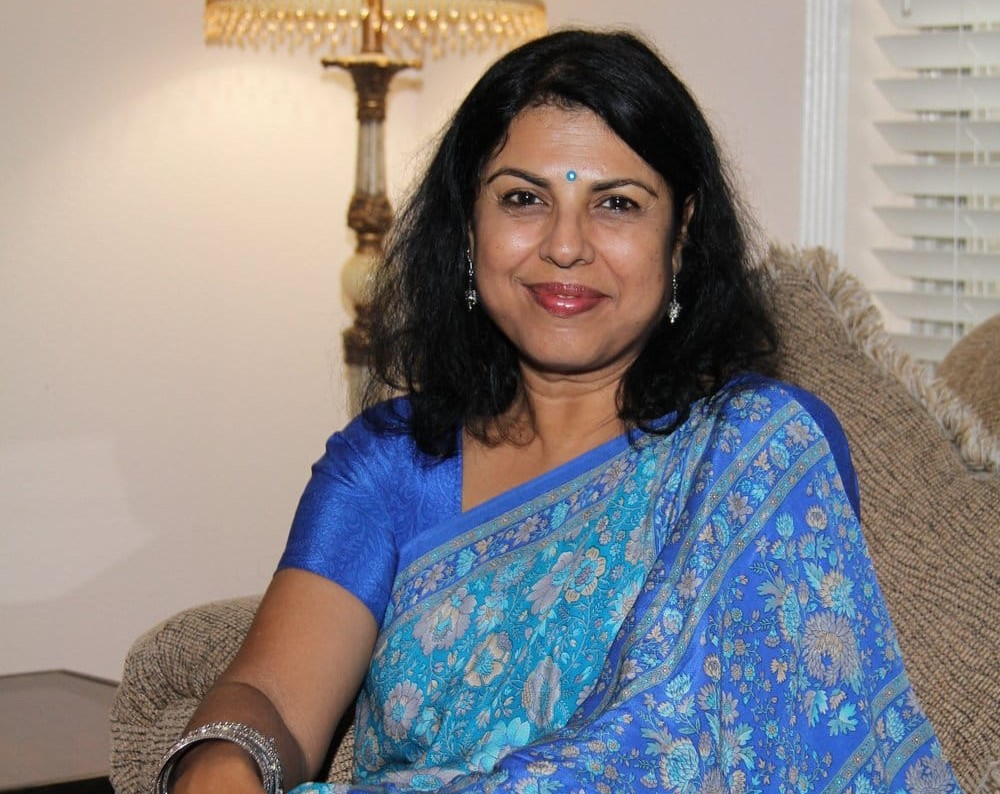
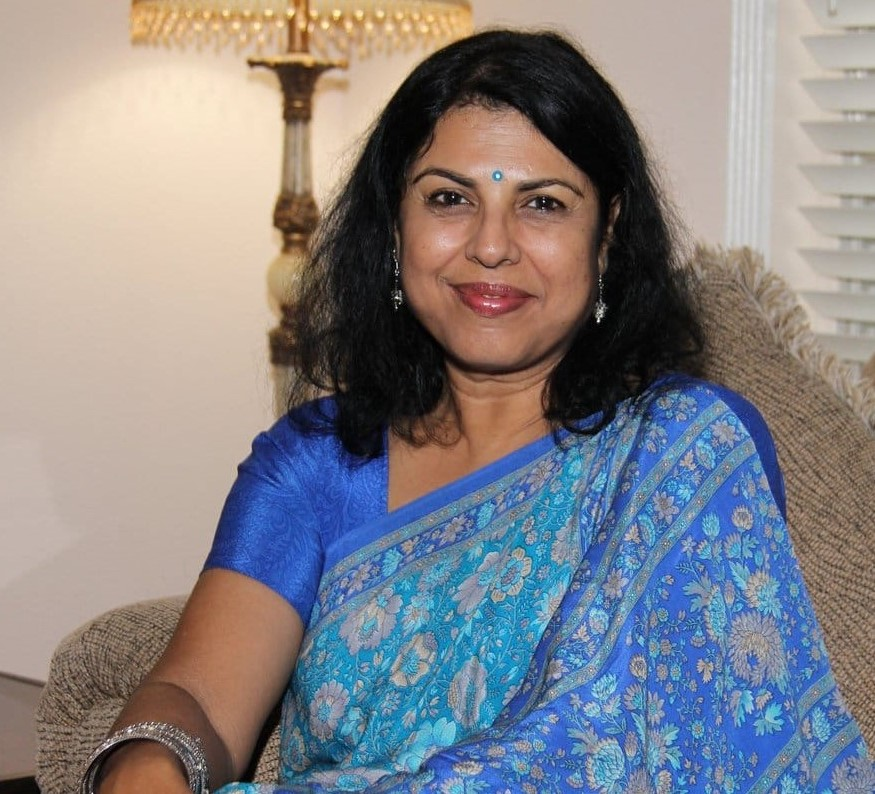
21

diff --git a/Pages/recentreleases.html b/Pages/recentreleases.html
@@ -329,40 +329,6 @@
 
     <hr class="hr-art">
 
-
-
-
-    <div class="art-hor">
-      <div class="art-hor-img">
-      <img src="../book-img/BlackRiver1.jpg" alt="Artist image">
-      </div>
-      <div class="art-hor-info">
-        <a href="nilanjanaroy.html" class="art-topic">Nilanjana S. Roy</a>
-        <p class="contents1">Black River by Nilanjana S. Roy is a noir mystery that takes the readers on a dark and fatalistic journey into a story of lost innocence which is coloured with immense grief. What happens to a father whose child's life is suddenly cut short? Does the final coming together of the pieces of the puzzle bring any sense of closure? Why do we consider murder to be the most unforgiving crime? The Yamuna, groaning with the burden of pollutants, flows through the city of Delhi and the story as the black river. It remains a silent spectator to the crimes that unfold on its banks and on its waters. But do human beings have the capacity to swallow everything like the river? Roy delves into these pertinent questions and charts out a narrative that sheds light on these questions of loss and grief.</p>
-          <a href="nilanjanaroy.html" class="art-topic1"><button class="abtn">Read more</button></a>
-          
-      </div>
-    </div>
-
-    <hr class="hr-art">
-
-    <div class="art-hor">
-      <div class="art-hor-img">
-      <img src="../book-img/Independence1.jpg" alt="Artist image">
-      </div>
-      <div class="art-hor-info">
-        <a href="chitra.html" class="art-topic">Chitra Banerjee Divakaruni</a>
-        <p class="contents1">The latest work by the author of 'The Forest of 
-          Enchantments' and 'The Last Queen' is set on the cusp of India's independence. The novel begins 
-          in the idyllic setting of Ranipur, a village in Bengal 'safe from the rising turbulence in the 
-          country'. Nabakumar Ganguly is a doctor who runs a clinic in Calcutta with Dr. Abdullah but the </p>
-          <a href="chitra.html" class="art-topic1"><button class="abtn">Read more</button></a>
-          
-      </div>
-    </div>
-
-    <hr class="hr-art">
-
     <div class="art-hor">
       <div class="art-hor-img">
       <img src="../book-img/books1.1.jpg" alt="Artist image">

diff --git a/Pages/chitra.html b/Pages/chitra.html
@@ -188,7 +188,8 @@
     <h3 class="light-dark"></h3>
     <h1 class="art-top"></h1>
     <div class="booksideimages">
-      <!-- <img class="book-page-authorimg" src="" alt=""> -->
+      <img class="book-page-authorimg" src="../authorprofileimg/chitrabanarjee.jpg" alt="image"> <br>
+      <span class="credit">Image Credit - Author</span>
     <img class="book-page-img" src="../book-img/Independence.jpg" alt="book image">
    </div>
     

diff --git a/Pages/nilanjanaroy.html b/Pages/nilanjanaroy.html
@@ -189,7 +189,7 @@
     <h1 class="art-top"></h1>
 
     <div class="booksideimages">
-       <img class="book-page-authorimg" src="../authorprofileimg/nilanjanasroy.jpg" alt=""> <br>
+       <img class="book-page-authorimg" src="../authorprofileimg/nilanjanasroy1.jpg" alt=""> <br>
        <span class="credit">Image Credit - Author</span>
        <img class="book-page-img" src="../book-img/BlackRiver.jpg" alt="book image">
     </div>

diff --git a/Pages/sharayana.html b/Pages/sharayana.html
@@ -188,6 +188,8 @@
     <h3 class="light-dark"></h3>
     <h1 class="art-top"></h1>
     <div class="booksideimages">
+      <img class="book-page-authorimg" src="../authorprofileimg/shrayana.jpg" alt="image"> <br>
+      <span class="credit">Image Credit - harpercollins.co.in</span>
       <img class="book-page-img" src="../book-img/books5.jpg" alt="book image">
     </div>
     <div class="lit-info">

diff --git a/Pages/tejo.html b/Pages/tejo.html
@@ -186,6 +186,8 @@
   <div class="art-container3">
     <h1 class="art-top"></h1>
     <div class="booksideimages">
+      <img class="book-page-authorimg" src="../authorprofileimg/vasudhendra.jpg" alt="image"> <br>
+      <span class="credit">Image Credit - Author</span>
        <img class="book-page-img" src="../book-img/tejo-tungbhadra1.png" alt="book image">
     </div>
 

diff --git a/Pages/janicepariat.html b/Pages/janicepariat.html
@@ -187,6 +187,8 @@
     <h3 class="light-dark"></h3>
     <h1 class="art-top"></h1>
     <div class="booksideimages">
+      <img class="book-page-authorimg" src="../authorprofileimg/janicepariat.jpg" alt="image"> <br>
+      <span class="credit">Image Credit - Author</span>
       <img class="book-page-img" src="../book-img/books2.jpg" alt="book image">
     </div>
     

diff --git a/style.css b/style.css
@@ -1547,8 +1547,10 @@ color: white;
 }
 .book-page-authorimg{
   margin-top: 25px;
-  height: 160px;
-  border-radius: 50%;
+  height: 140px;
+  object-fit: cover;
+  width: 140px;
+  border-radius: 100%;
 }
 .book-page-img{
   height: 300px;
